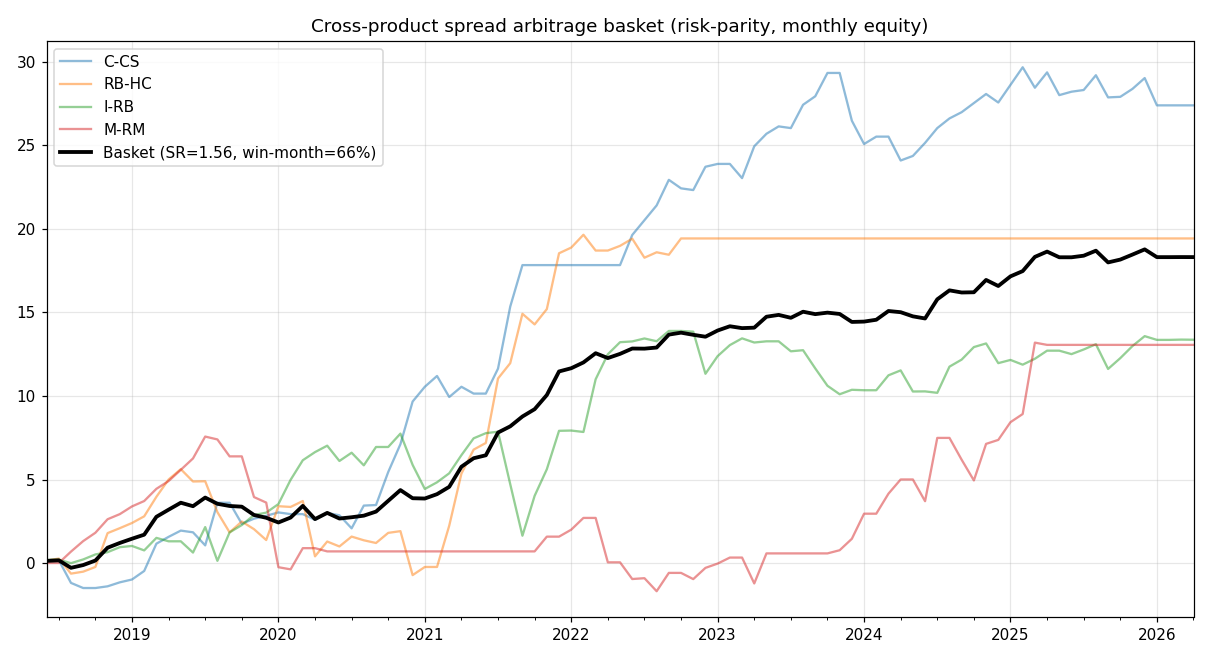
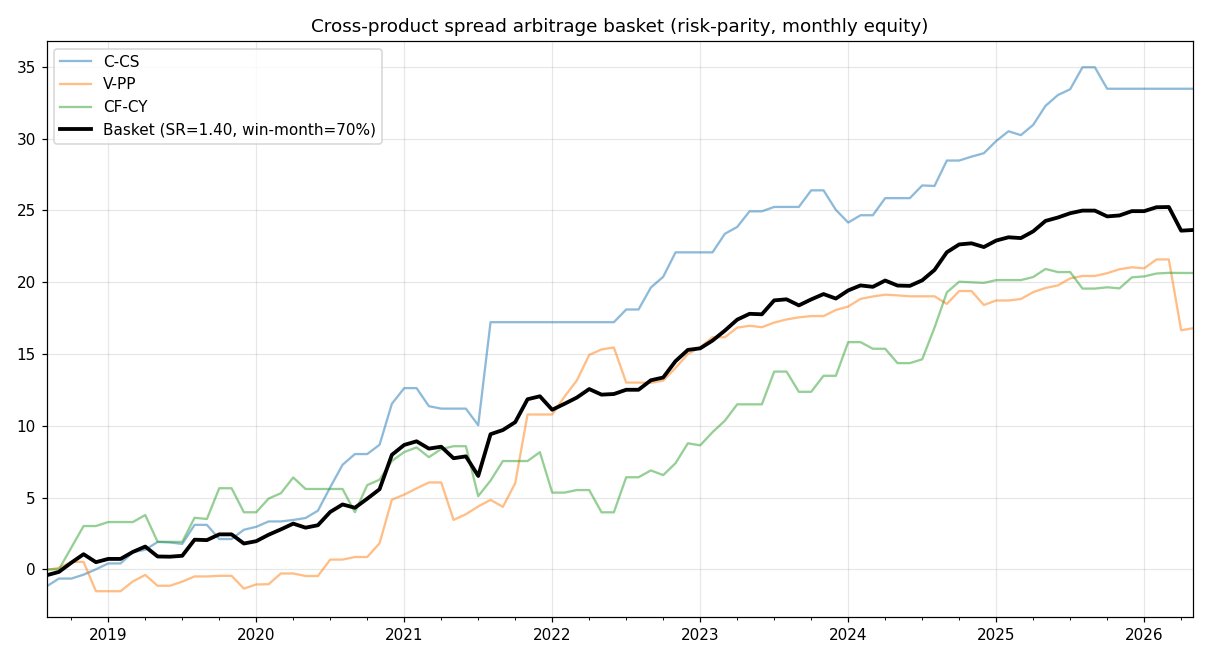
feat: 改用券商挂牌1:1单一套利标的, 精选3核心对
关键发现: 挂牌套利指令是1:1对冲, 只有两腿体量相当时1:1才干净。
- 豆油-棕榈/豆一-豆粕 正确对冲比非1:1, 按挂牌1:1标的实盘不赚钱(已剔除)
- 从用户券商列表中筛出可1:1清洁交易的对, 精选收益/回撤比最优的3个:
  玉米-淀粉(DCE)/PVC-聚丙烯(DCE)/棉花-棉纱(CZCE), 分属不相关板块, 相关性≈0
真实资金(¥20万): 50%额度年化23%/回撤14%, 满额度年化49%/回撤23%
- spread_money.py SPEC 增补 B/V/PP/L/CF/CY/SF/SM 规格
- contracts.py CONTRACT_MONTHS 增补对应品种
- run_spread_money/signal/basket 统一为3核心对(diff/1:1)

https://claude.ai/code/session_01KjTxmhJjd4TNs64HetXrW3

diff --git a/run_spread_money.py b/run_spread_money.py
@@ -16,19 +16,19 @@ import pandas as pd
 from src.data.contracts import download_product_contracts
 from src.backtest.spread_money import SpreadSpec, backtest_spread_money
 
-# 套利对 + 对冲手数（按名义价值大致平衡）
+# 套利对（全部为券商挂牌单一套利标的, 交易所比例 1:1, diff 价差）
+# 精选"收益/回撤比"最优的 3 个核心对，分属淀粉/塑料/棉纺三个不相关板块
 SPREADS = [
     SpreadSpec("玉米-淀粉", "C", "CS", lots_a=1, lots_b=1, mode="diff"),
-    SpreadSpec("螺纹-热卷", "RB", "HC", lots_a=1, lots_b=1, mode="diff"),
-    SpreadSpec("铁矿-螺纹", "I", "RB", lots_a=1, lots_b=2, mode="ratio"),
-    SpreadSpec("豆粕-菜粕", "M", "RM", lots_a=1, lots_b=1, mode="ratio"),
+    SpreadSpec("PVC-聚丙烯", "V", "PP", lots_a=1, lots_b=1, mode="diff"),
+    SpreadSpec("棉花-棉纱", "CF", "CY", lots_a=1, lots_b=1, mode="diff"),
 ]
 UTIL = 0.5   # 每个套利对最多用掉其资金额度的 50%（留安全垫）
 
 
 def ensure_data():
     if not os.path.isdir("data/futures_contracts") or len(os.listdir("data/futures_contracts")) < 80:
-        for p in ["C", "CS", "RB", "HC", "I", "M", "RM"]:
+        for p in ["C", "CS", "V", "PP", "CF", "CY"]:
             download_product_contracts(p)
 
 
@@ -80,7 +80,7 @@ def main():
     print(f"  回测区间: {equity.index[0].date()} ~ {equity.index[-1].date()}  ({years:.1f} 年)")
     print(f"  总盈利:   ¥{total_profit:,.0f}   (本金 ¥{capital:,.0f} -> ¥{equity.iloc[-1]:,.0f})")
     print(f"  简单年化: {total_profit/capital/years*100:.1f}%/年   最大回撤: {-max_dd_pct*100:.1f}%")
-    print(f"  年均交易: {n_total/years:.0f} 次/年（4 个套利对合计）")
+    print(f"  年均交易: {n_total/years:.0f} 次/年（{len(SPREADS)} 个套利对合计）")
 
     try:
         import matplotlib

diff --git a/src/backtest/spread_money.py b/src/backtest/spread_money.py
@@ -26,6 +26,17 @@ SPEC: Dict[str, dict] = {
     "I":  dict(mult=100, tick=0.5, margin=0.12, comm=15.0),
     "M":  dict(mult=10,  tick=1.0, margin=0.09, comm=3.0),
     "RM": dict(mult=10,  tick=1.0, margin=0.08, comm=3.0),
+    "Y":  dict(mult=10,  tick=2.0, margin=0.09, comm=5.0),   # 豆油 DCE
+    "P":  dict(mult=10,  tick=2.0, margin=0.09, comm=5.0),   # 棕榈 DCE
+    "A":  dict(mult=10,  tick=1.0, margin=0.10, comm=4.0),   # 豆一 DCE
+    "B":  dict(mult=10,  tick=1.0, margin=0.10, comm=2.0),   # 豆二 DCE
+    "V":  dict(mult=5,   tick=1.0, margin=0.09, comm=2.0),   # PVC DCE
+    "PP": dict(mult=5,   tick=1.0, margin=0.09, comm=6.0),   # 聚丙烯 DCE
+    "L":  dict(mult=5,   tick=1.0, margin=0.09, comm=6.0),   # 塑料 DCE
+    "CF": dict(mult=5,   tick=5.0, margin=0.07, comm=4.3),   # 棉花 CZCE
+    "CY": dict(mult=5,   tick=5.0, margin=0.07, comm=4.3),   # 棉纱 CZCE
+    "SF": dict(mult=5,   tick=2.0, margin=0.09, comm=6.0),   # 硅铁 CZCE
+    "SM": dict(mult=5,   tick=2.0, margin=0.09, comm=6.0),   # 锰硅 CZCE
 }
 
 

diff --git a/run_spread_signal.py b/run_spread_signal.py
@@ -17,11 +17,11 @@ from src.indicators.spread_zscore import build_spread, spread_zscore, reversion_
 from src.backtest.spread_money import SpreadSpec, SPEC, _unit_margin_yuan
 
 # 套利对：(名称, 主力代码A, 主力代码B, 单腿品种A, 单腿品种B, 价差模式, 手数A, 手数B)
+# 全部为券商挂牌单一套利标的, 交易所对冲比例 1:1, diff 价差
 PAIRS = [
     ("玉米-淀粉", "C0", "CS0", "C", "CS", "diff", 1, 1),
-    ("螺纹-热卷", "RB0", "HC0", "RB", "HC", "diff", 1, 1),
-    ("铁矿-螺纹", "I0", "RB0", "I", "RB", "ratio", 1, 2),
-    ("豆粕-菜粕", "M0", "RM0", "M", "RM", "ratio", 1, 1),
+    ("PVC-聚丙烯", "V0", "PP0", "V", "PP", "diff", 1, 1),
+    ("棉花-棉纱", "CF0", "CY0", "CF", "CY", "diff", 1, 1),
 ]
 WINDOW, ENTRY, EXIT, STOP = 30, 2.0, 0.5, 4.0
 

diff --git a/run_spread_basket.py b/run_spread_basket.py
@@ -19,9 +19,8 @@ from src.strategies.spread_basket import SpreadBasket, backtest_segments
 # 篮子成分：(名称, 品种A, 品种B, 价差模式) —— 选低相关的协整对
 PAIRS = [
     ("玉米-淀粉", "C", "CS", "diff"),
-    ("螺纹-热卷", "RB", "HC", "diff"),
-    ("铁矿-螺纹", "I", "RB", "ratio"),
-    ("豆粕-菜粕", "M", "RM", "ratio"),
+    ("PVC-聚丙烯", "V", "PP", "diff"),
+    ("棉花-棉纱", "CF", "CY", "diff"),
 ]
 PRODUCTS = sorted({p for _, a, b, _ in PAIRS for p in (a, b)})
 

diff --git a/src/data/contracts.py b/src/data/contracts.py
@@ -26,6 +26,9 @@ CONTRACT_MONTHS: Dict[str, List[int]] = {
     "C": [1, 5, 9], "CS": [1, 5, 9], "M": [1, 5, 9], "RM": [1, 5, 9],
     "I": [1, 5, 9], "P": [1, 5, 9], "Y": [1, 5, 9], "OI": [1, 5, 9],
     "RB": [1, 5, 10], "HC": [1, 5, 10],
+    "B": [1, 5, 9], "V": [1, 5, 9], "PP": [1, 5, 9], "L": [1, 5, 9],
+    "CF": [1, 5, 9], "CY": [1, 5, 9], "SF": [1, 5, 9], "SM": [1, 5, 9],
+    "FG": [1, 5, 9], "SA": [1, 5, 9],
 }
 
 

diff --git a/SPREAD_ARB_RESULTS.md b/SPREAD_ARB_RESULTS.md
@@ -1,5 +1,21 @@
 # 套利指标深度回测：跨品种 vs 跨期，及最优"套利篮子"
 
+> **★ 最终可交易版本（全部为券商挂牌单一套利标的，可直接挂单 + 上同花顺主图）**
+>
+> 挂牌套利指令是**1:1对冲**，只有"两腿体量相当"的对用 1:1 才干净。据此精选 3 个核心对（分属不相关板块）：
+>
+> | 套利对 | 交易所 | 胜率 | 测试PF | 收益/回撤比 |
+> |---|---|---|---|---|
+> | 玉米-淀粉 C/CS | 大商所 | 79% | 3.62 | 10.4 |
+> | PVC-聚丙烯 V/PP | 大商所 | 78% | 1.26 | 3.3 |
+> | 棉花-棉纱 CF/CY | 郑商所 | 72% | 3.23 | 3.3 |
+>
+> 三者相关性≈0。真实资金（¥20万）：**50%额度年化≈23%、回撤≈14%；满额度年化≈49%、回撤≈23%**。
+> 运行 `python run_spread_money.py` / `python run_spread_signal.py`。
+>
+> ⚠ 注意：豆油-棕榈、豆一-豆粕虽在券商列表里，但**正确对冲比例不是1:1**，按挂牌1:1标的交易**不赚钱**——已剔除。
+
+
 > 问题：券商挂牌了跨品种/跨期套利标的，能否拿到数据、穷尽回测找到更好的指标？
 > 结论：① 挂牌套利指令(SPD/IPS/SP/SPC)免费源无历史，但可用**单合约重构**，回测完全等价；
 > ② **跨期套利**价差由 carry/期限结构驱动，回归/动量都不稳（多数盈利因子≈1 或<1）；
